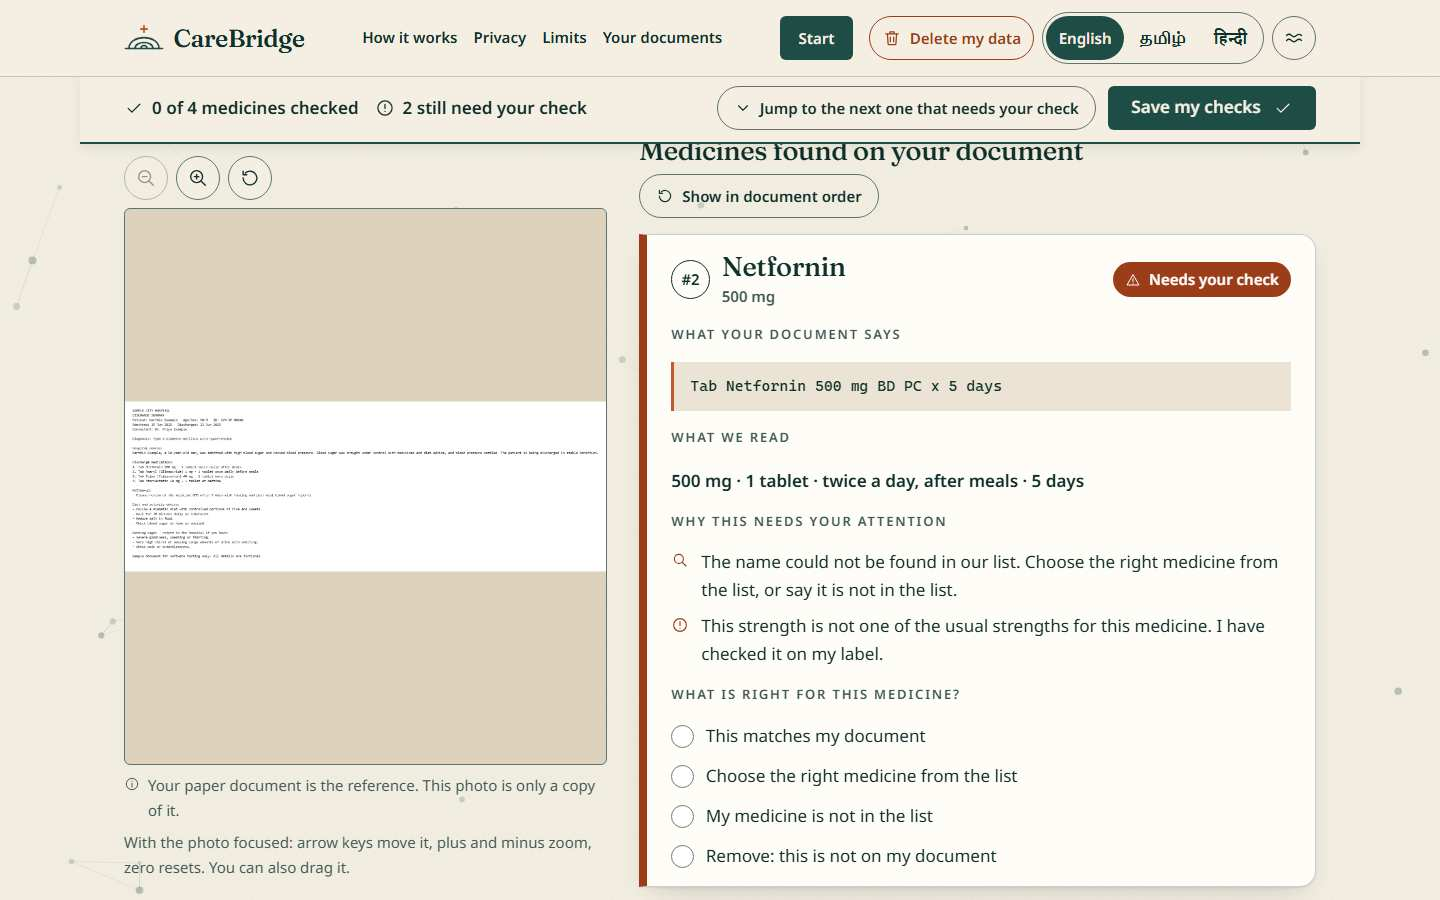
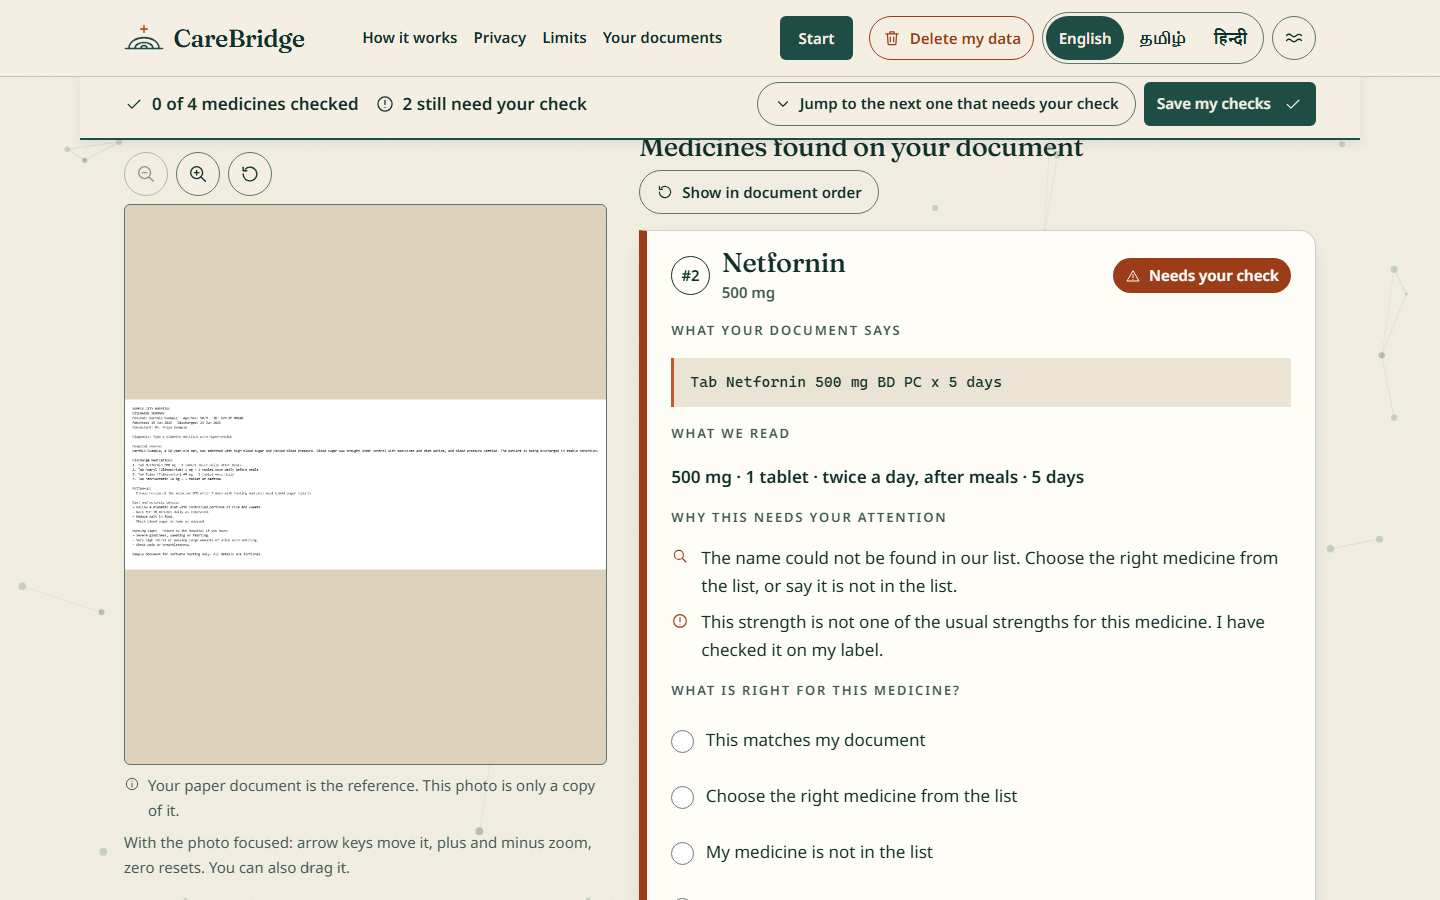
Phase 6c-7: screenshots, strings and tests

diff --git a/frontend/e2e/shots6c.spec.ts b/frontend/e2e/shots6c.spec.ts
@@ -1,0 +1,100 @@
+/* Phase 6c screenshots (mocked fixtures, dev document image from data/rendered when present). Not part of the normal run:
+ *   $env:SHOTS=1; npx playwright test e2e/shots6c.spec.ts   (the preview server on port 4173 must serve the current build) */
+import { expect, test, type Page } from '@playwright/test'
+import { existsSync, mkdirSync, readFileSync, writeFileSync } from 'node:fs'
+import { fileURLToPath } from 'node:url'
+import { DOC_ID, card, openCard, reviewReady, setLangInit } from './flowhelpers'
+
+const OUT = fileURLToPath(new URL('../../docs/screenshots/phase6c/', import.meta.url))
+const IMG = fileURLToPath(new URL('../../data/rendered/clean/ds_037.png', import.meta.url))
+test.skip(!process.env.SHOTS, 'screenshots are taken on request (SHOTS=1)')
+mkdirSync(OUT, { recursive: true })
+
+async function reveal(page: Page) {
+  for (let y = 0; y < 9000; y += 450) {
+    await page.evaluate((v) => window.scrollTo(0, v), y)
+    await page.waitForTimeout(90)
+  }
+  await page.evaluate(() => window.scrollTo(0, 0))
+  await page.waitForTimeout(400)
+}
+
+/** JPEG under about 290 KB: lower the quality until it fits */
+async function shot(page: Page, name: string, full = false) {
+  await page.addStyleTag({ content: '.cursor-ring, .cursor-dot { display: none !important }' }) // the pointer ring is not part of the page
+  let buf = Buffer.alloc(0)
+  for (const q of [60, 50, 40, 32, 25, 18, 12]) {
+    buf = await page.screenshot({ type: 'jpeg', quality: q, fullPage: full })
+    if (buf.length < 290_000) break
+  }
+  writeFileSync(`${OUT}${name}.jpg`, buf)
+  expect(buf.length).toBeLessThan(300_000)
+}
+
+const common = async (page: Page, lang: string, w: number, h: number) => {
+  await page.setViewportSize({ width: w, height: h })
+  await setLangInit(page, lang)
+  await reviewReady(page, { imageKept: true, imageBody: existsSync(IMG) ? readFileSync(IMG) : undefined })
+}
+
+for (const [lang, w] of [['en', 390], ['en', 768], ['en', 1440], ['ta', 1440], ['hi', 1440]] as const)
+  test(`landing ${lang} ${w}`, async ({ page }) => {
+    await common(page, lang, w, 900)
+    await page.goto('/')
+    await page.locator('h1').waitFor()
+    await reveal(page)
+    await shot(page, `landing_${lang}_${w}`, true)
+  })
+
+for (const [w, h] of [[1440, 900], [390, 844]] as const)
+  test(`review ${w}`, async ({ page }) => {
+    await common(page, 'en', w, h)
+    await page.goto(`/d/${DOC_ID}/review`)
+    await card(page, 1).waitFor()
+    await page.waitForTimeout(1200)
+    const y = w > 1000 ? 330 : 520
+    await page.evaluate((v) => window.scrollTo(0, v), y)
+    await page.waitForTimeout(900)
+    await shot(page, `review_${w}_before`)
+    const c = await openCard(page, 2)
+    await c.getByLabel('This matches my document').check()
+    await c.getByLabel(/I have checked how often/).check()
+    await c.getByRole('button', { name: 'Use this check' }).click()
+    await page.waitForTimeout(900)
+    await shot(page, `review_${w}_after_one_check`)
+  })
+
+for (const w of [390, 1440])
+  test(`how it works ${w}`, async ({ page }) => {
+    await common(page, 'en', w, 900)
+    await page.goto('/how-it-works')
+    await page.locator('h1').waitFor()
+    await reveal(page)
+    await shot(page, `how_${w}`, true)
+  })
+
+for (const w of [390, 1440])
+  test(`result ${w}`, async ({ page }) => {
+    await common(page, 'en', w, 900)
+    await page.goto(`/d/${DOC_ID}/result`)
+    await page.locator('.res-section').first().waitFor()
+    await reveal(page)
+    await shot(page, `result_${w}`, true)
+  })
+
+for (const w of [1024, 1280])
+  test(`header ${w}`, async ({ page }) => {
+    await common(page, 'en', w, 300)
+    await page.goto('/documents')
+    await page.locator('h1').first().waitFor()
+    await page.waitForTimeout(500)
+    await page.screenshot({ path: `${OUT}header_${w}.jpg`, type: 'jpeg', quality: 70, clip: { x: 0, y: 0, width: w, height: 90 } })
+  })
+
+test('header 390 with the menu open', async ({ page }) => {
+  await common(page, 'en', 390, 700)
+  await page.goto('/documents')
+  await page.locator('.menu-btn').click()
+  await page.waitForTimeout(400)
+  await shot(page, 'header_390_menu_open')
+})

diff --git a/frontend/e2e/review6c.spec.ts b/frontend/e2e/review6c.spec.ts
@@ -12,7 +12,7 @@ test.describe('review page: list', () => {
     await page.goto(`/d/${DOC_ID}/review`)
     await page.locator('article.med-card').first().waitFor()
     expect(await headings(page)).toEqual(['Netfornin', 'Alendronate', 'Pantop', 'Glycomet'])
-    expect(await page.locator('.rv-num span[aria-hidden]').allInnerTexts()).toEqual(['#2', '#3', '#4', '#1'])
+    expect(await page.locator('.rv-num span[aria-hidden]').allInnerTexts()).toEqual(['No. 2', 'No. 3', 'No. 4', 'No. 1'])
     await expect(page.locator('.rv-num .sr-only').first()).toHaveText('Medicine 2 on your document')
     await page.getByRole('button', { name: 'Show in document order' }).click()
     expect(await headings(page)).toEqual(['Glycomet', 'Netfornin', 'Alendronate', 'Pantop'])

diff --git a/frontend/src/styles/pages.css b/frontend/src/styles/pages.css
@@ -240,3 +240,6 @@ h1, h2, h3, .display, .lede { overflow-wrap: break-word; }
 /* Tamil labels are about twice as wide as the SVG boxes allow: Tamil always uses the vertical flow, so no label is ever cut off */
 html:lang(ta) .pipeline-wrap { display: none; }
 html:lang(ta) .pl-vertical { display: grid; }
+/* Tamil and Hindi glyphs are wider than the "ch" of the Latin face: heading measures in em so words are not broken mid-way */
+html:lang(ta) .section-heading .h1, html:lang(ta) .section-heading .h2, html:lang(hi) .section-heading .h1, html:lang(hi) .section-heading .h2 { max-width: 16em; }
+html:lang(ta) .privacy-band h2, html:lang(hi) .privacy-band h2 { max-width: 14em; }

diff --git a/scripts/p6c_review.py b/scripts/p6c_review.py
@@ -6,7 +6,7 @@ STRINGS: dict[str, tuple[str, str, str]] = {
     "ui.flow.rv.chip.noaction": ("No action needed", "நடவடிக்கை தேவையில்லை", "कुछ करने की ज़रूरत नहीं"),
     "ui.flow.rv.edit": ("Edit", "திருத்து", "बदलें"),
     "ui.flow.rv.collapse": ("Collapse", "சுருக்கு", "समेटें"),
-    "ui.flow.rv.num": ("#{n}", "#{n}", "#{n}"),
+    "ui.flow.rv.num": ("No. {n}", "எண் {n}", "क्र. {n}"),
     "ui.flow.rv.num_label": ("Medicine {n} on your document", "உங்கள் ஆவணத்தில் மருந்து {n}", "आपके दस्तावेज़ में दवा {n}"),
     "ui.flow.rv.read": ("What we read", "நாங்கள் படித்தது", "हमने क्या पढ़ा"),
     "ui.flow.rv.not_read": ("not read", "படிக்கப்படவில்லை", "पढ़ा नहीं गया"),
